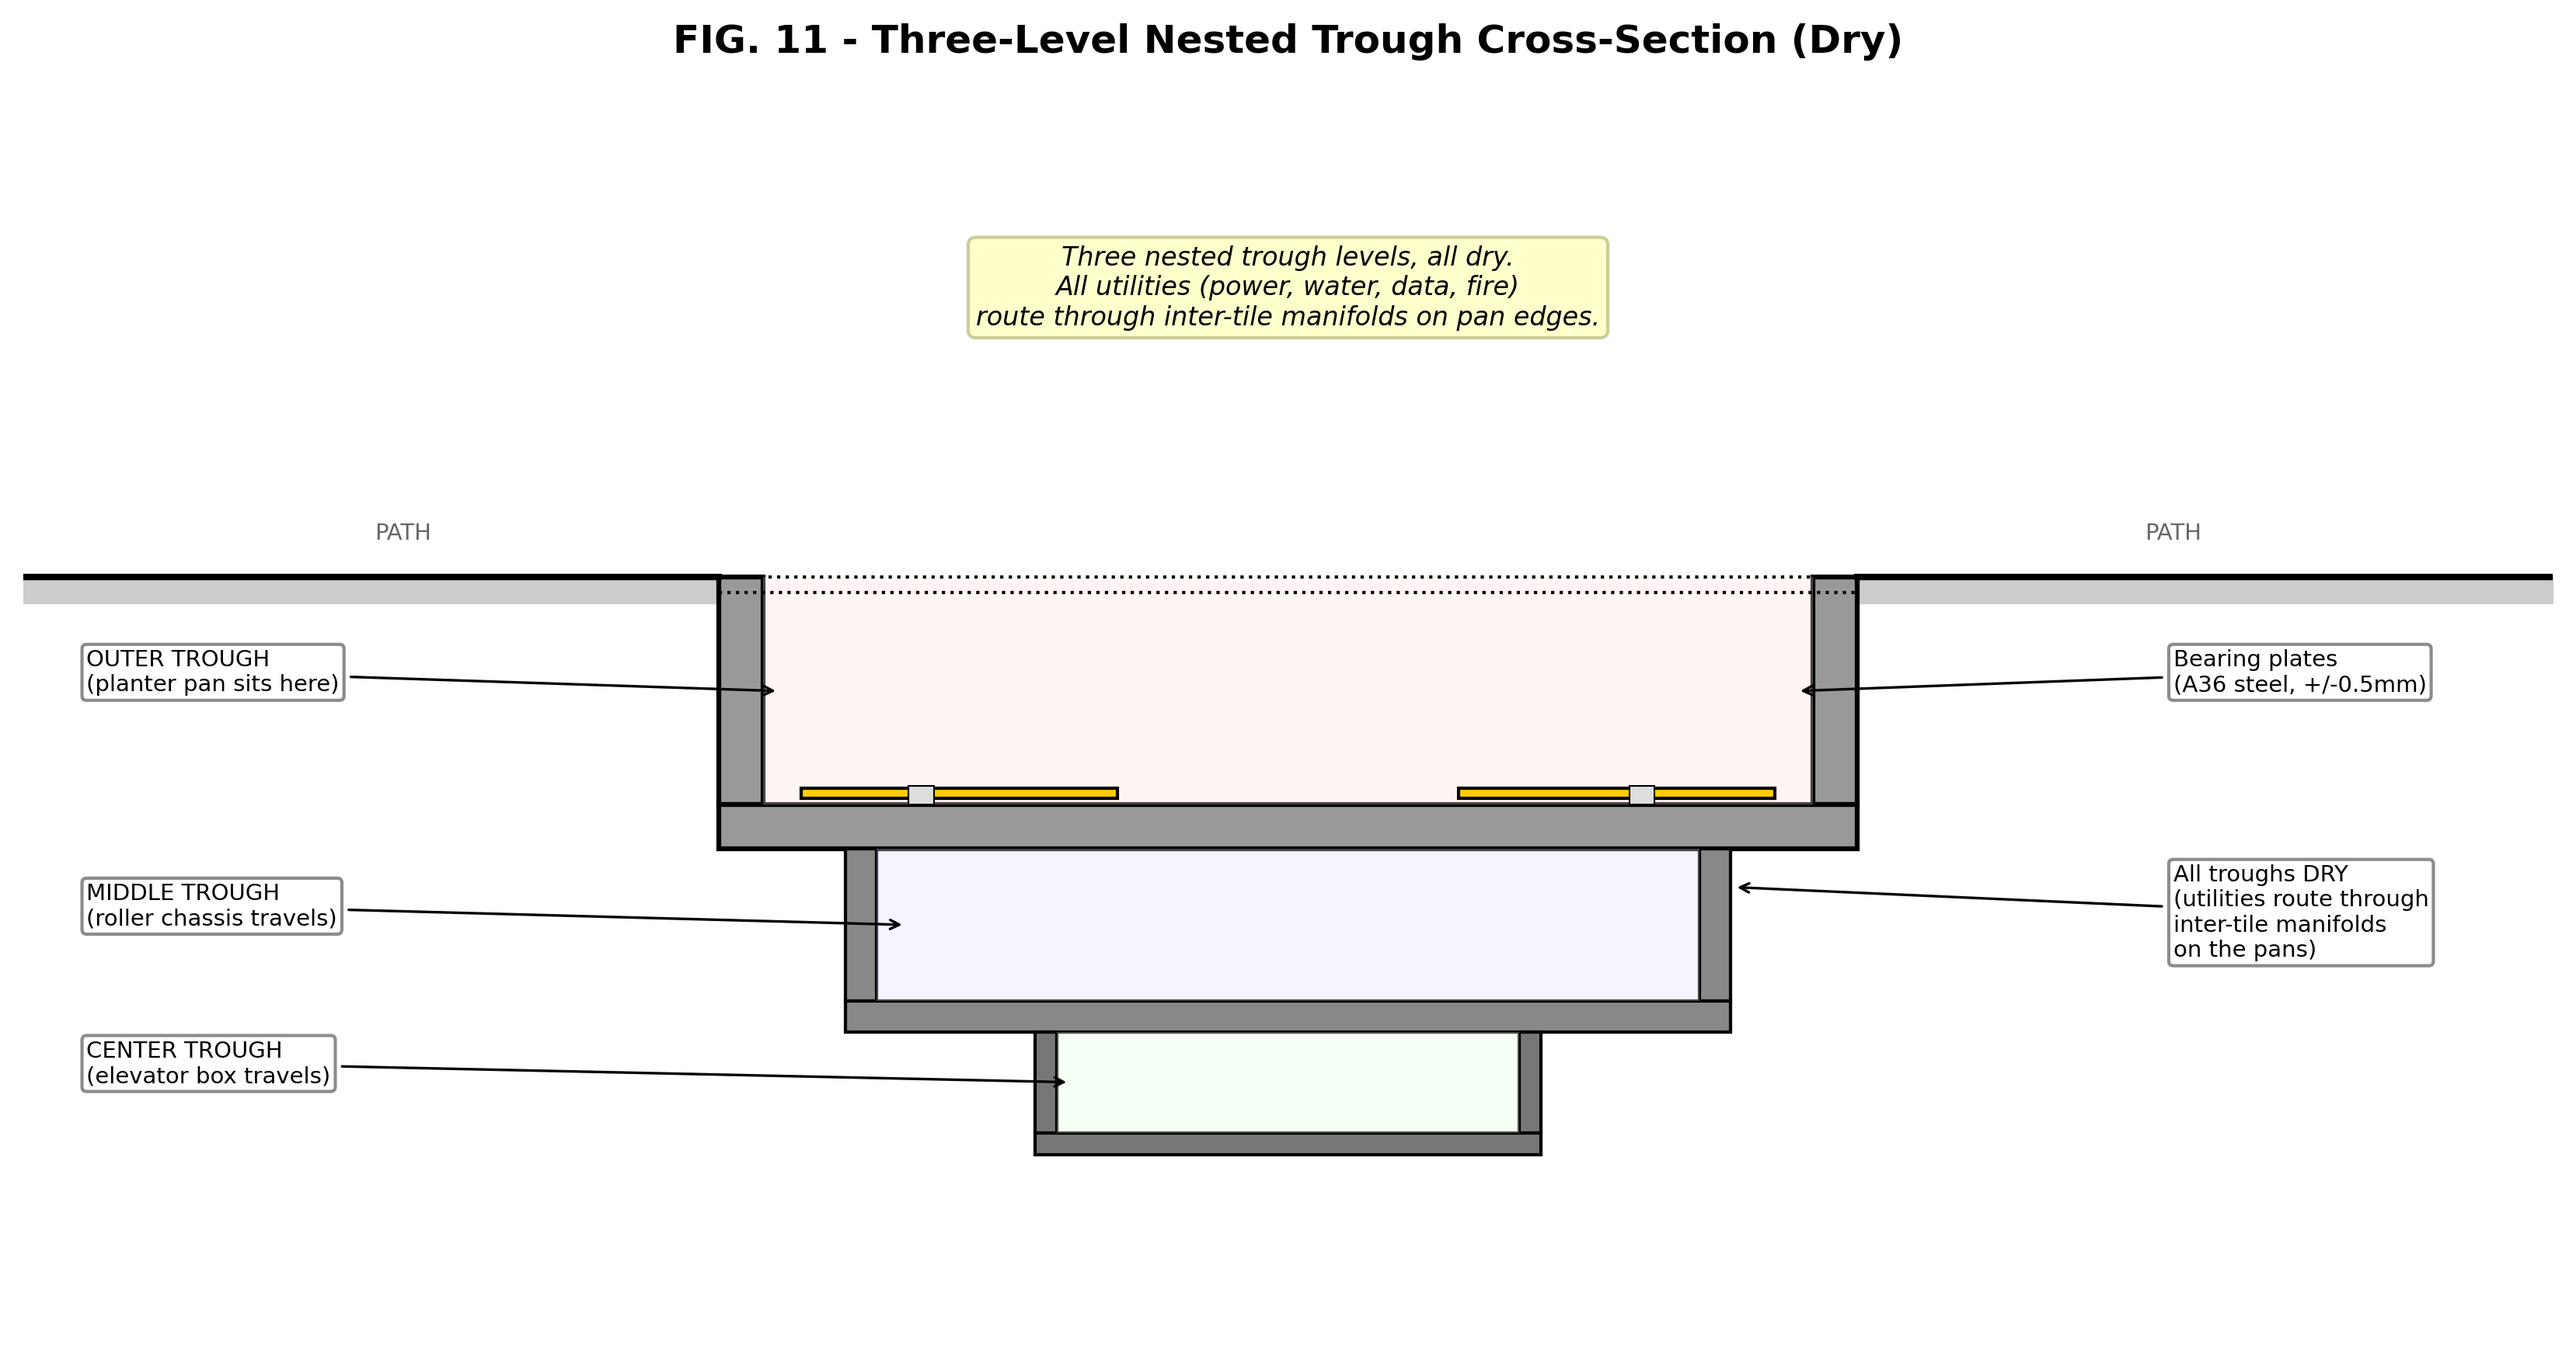
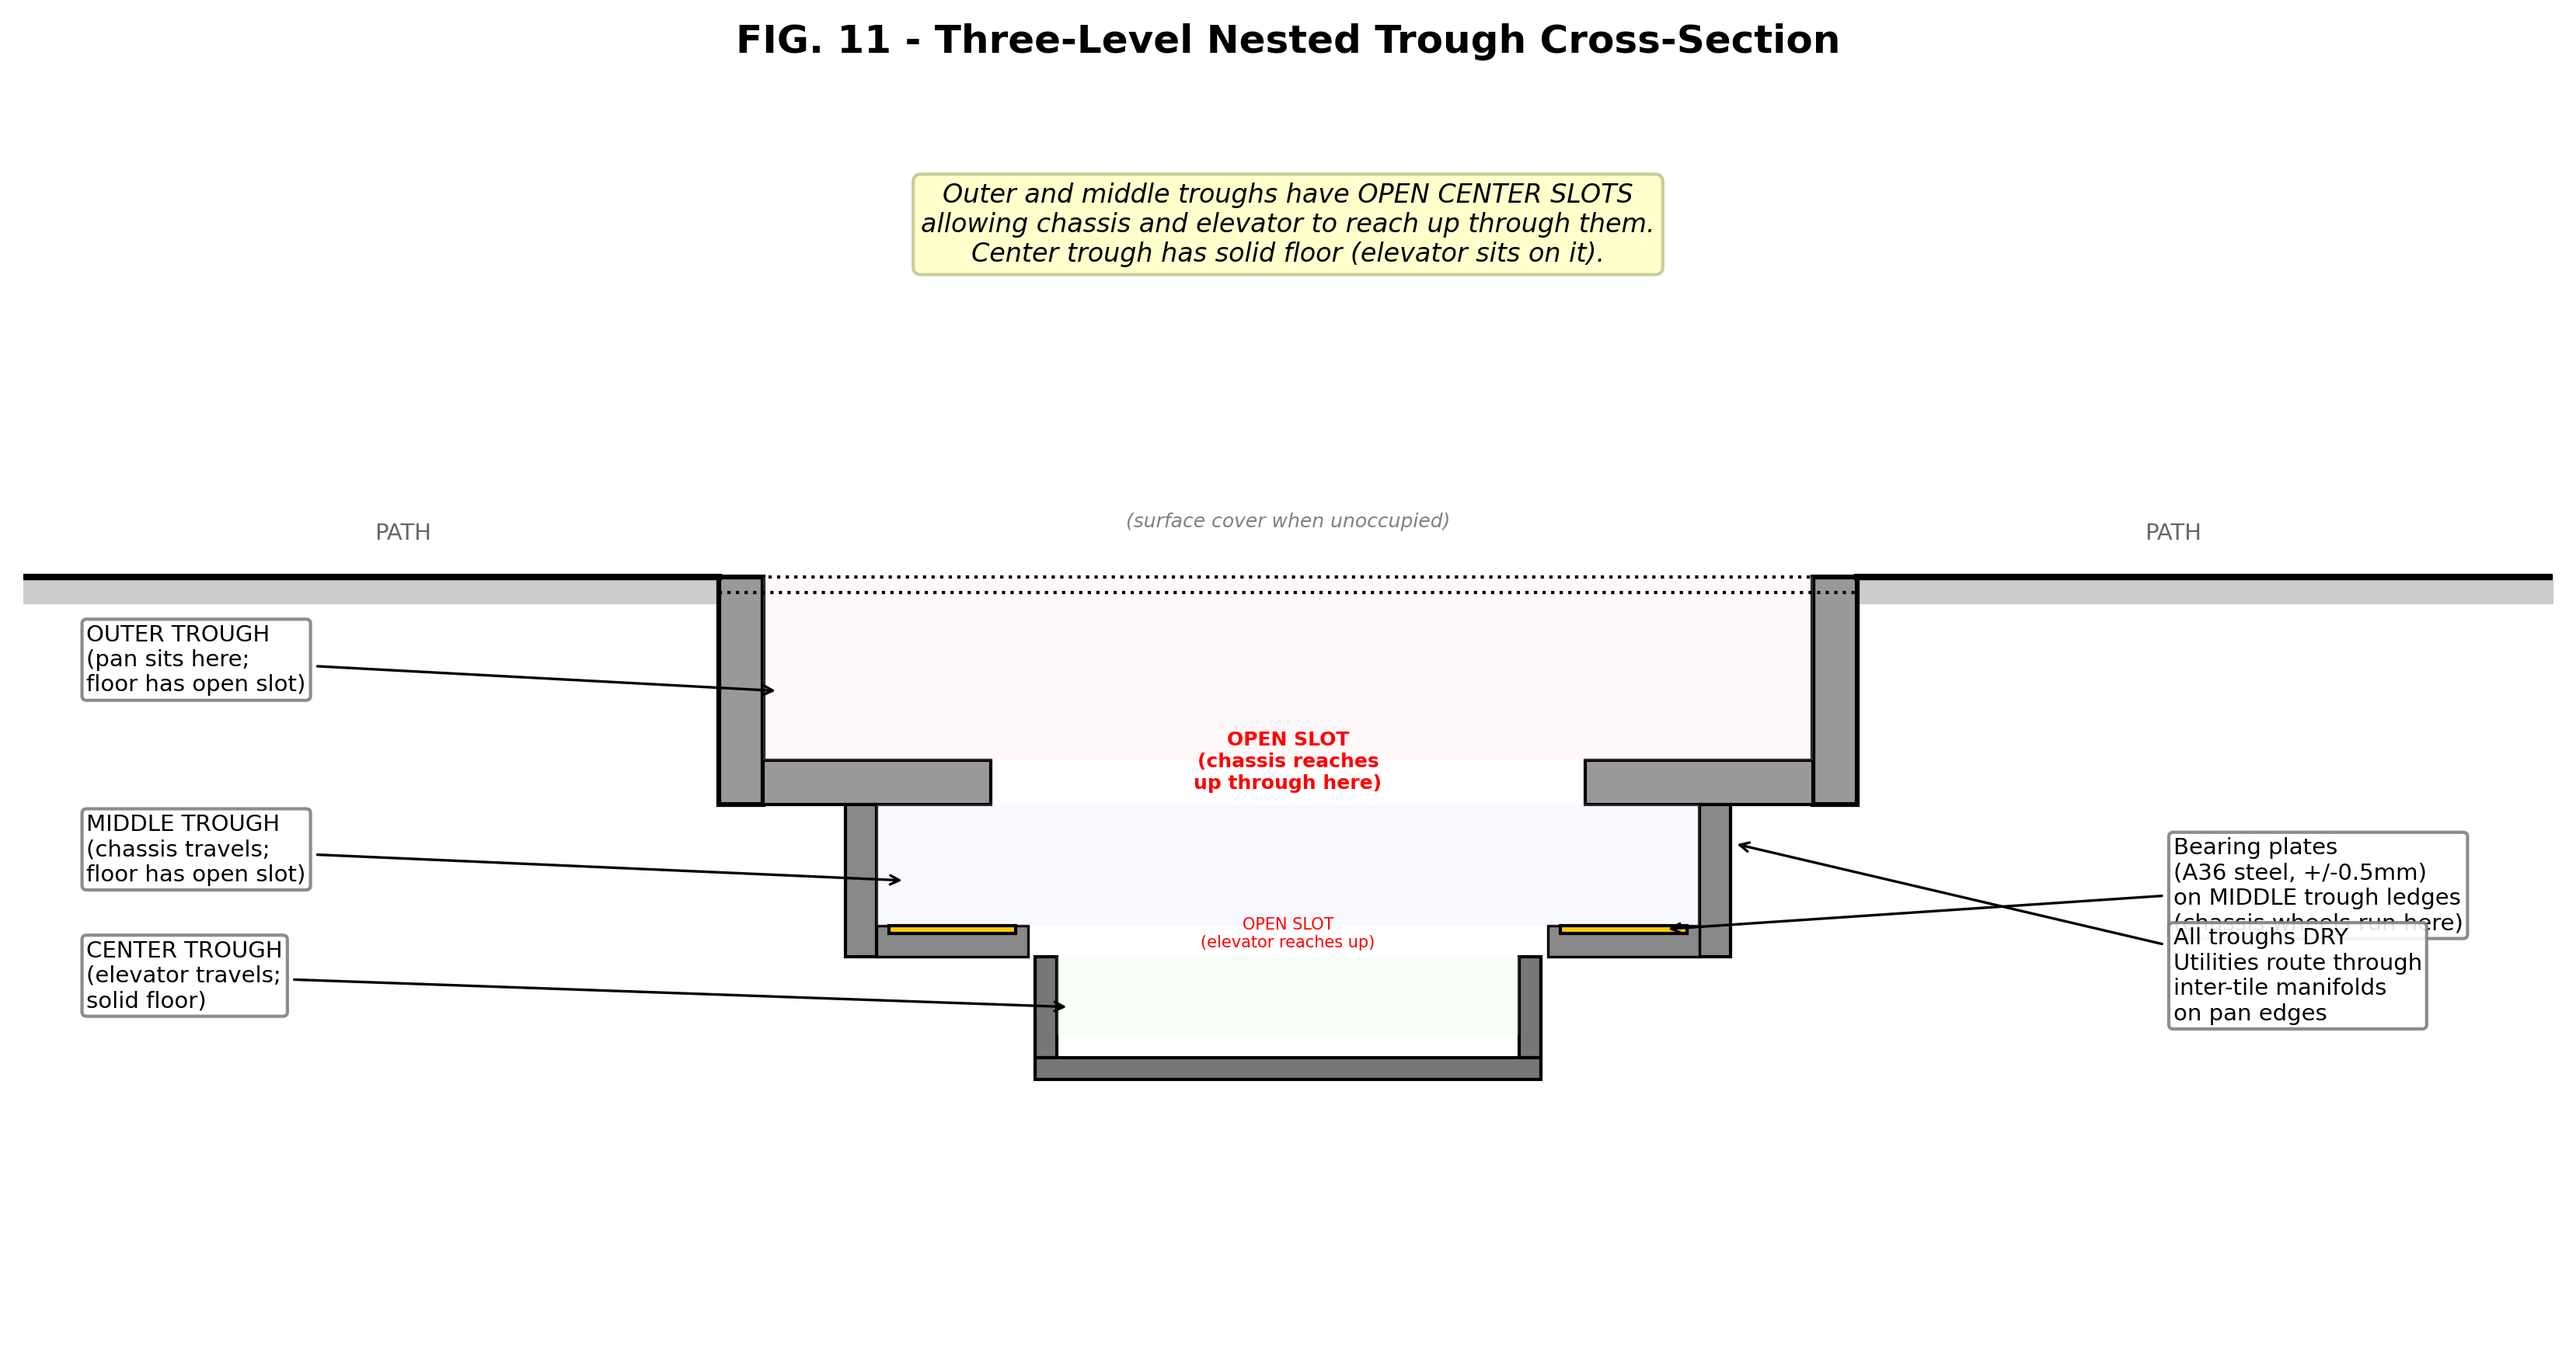
Fix Fig 11 (open slots in trough floors, bearing plates on middle trough), remove disclaimer
- Fig 11: outer trough floor now has OPEN CENTER SLOT for chassis access
- Fig 11: middle trough floor now has OPEN CENTER SLOT for elevator access
- Fig 11: center trough has solid floor (elevator sits on it)
- Fig 11: bearing plates moved to MIDDLE trough ledges (where chassis wheels run)
- Removed attorney disclaimer from end of document

diff --git a/patent/provisional-application.html b/patent/provisional-application.html
@@ -890,7 +890,6 @@ The central controller manages the fleet of roller chassis and elevator boxes as
 <li>Fig. 16 - Tile mesh network topology diagram (power, data, water routing across tile grid)</li>
 </ol>
 <hr />
-<p><em>This document is a provisional patent application. Review all details for accuracy before filing. This is not legal advice. Consider consulting a registered patent attorney or agent for review before filing.</em></p>
 
 <div class="drawings-section"><h2>DRAWINGS</h2>
 <div class="drawing"><img src="drawings/fig10_planter_crosssection.png" alt="fig10_planter_crosssection.png"><p class="caption">Fig10 Planter Crosssection</p></div>

diff --git a/patent/generate_drawings_v3.py b/patent/generate_drawings_v3.py
@@ -243,12 +243,12 @@ def fig14_pickup_sequence():
 
 
 def fig11_three_level_trough():
-    """Updated trough cross-section showing three nested levels"""
+    """Updated trough cross-section showing three nested levels with open floors"""
     fig, ax = plt.subplots(1, 1, figsize=(14, 9))
     ax.set_xlim(-4, 16)
     ax.set_ylim(-6, 4)
     ax.set_aspect('equal')
-    ax.set_title('FIG. 11 - Three-Level Nested Trough Cross-Section (Dry)',
+    ax.set_title('FIG. 11 - Three-Level Nested Trough Cross-Section',
                 fontsize=12, fontweight='bold')
 
     ground_y = 0
@@ -262,77 +262,109 @@ def fig11_three_level_trough():
     ax.text(-1, 0.3, 'PATH', fontsize=7, ha='center', color='#666')
     ax.text(13, 0.3, 'PATH', fontsize=7, ha='center', color='#666')
 
-    # OUTER TROUGH (widest)
+    wall = 0.35
+
+    # === OUTER TROUGH (widest) ===
     outer_l, outer_r = 1.5, 10.5
     outer_d = 1.8
-    wall = 0.35
+    # Left and right walls
     ax.add_patch(patches.Rectangle((outer_l, -outer_d), wall, outer_d,
                  facecolor='#999', edgecolor='black', linewidth=1.5))
     ax.add_patch(patches.Rectangle((outer_r - wall, -outer_d), wall, outer_d,
                  facecolor='#999', edgecolor='black', linewidth=1.5))
-    ax.add_patch(patches.Rectangle((outer_l, -outer_d - wall), outer_r - outer_l, wall,
-                 facecolor='#999', edgecolor='black', linewidth=1.5))
+    # Floor: LEFT ledge, OPEN CENTER SLOT, RIGHT ledge
+    ledge_w = 1.8
+    slot_l = outer_l + wall + ledge_w
+    slot_r = outer_r - wall - ledge_w
+    # Left ledge
+    ax.add_patch(patches.Rectangle((outer_l + wall, -outer_d), ledge_w, wall,
+                 facecolor='#999', edgecolor='black', linewidth=1))
+    # Right ledge
+    ax.add_patch(patches.Rectangle((outer_r - wall - ledge_w, -outer_d), ledge_w, wall,
+                 facecolor='#999', edgecolor='black', linewidth=1))
+    # Open slot annotation
+    ax.annotate('OPEN SLOT\n(chassis reaches\nup through here)',
+               xy=((slot_l + slot_r)/2, -outer_d + 0.1),
+               fontsize=6, ha='center', va='bottom', color='red',
+               fontweight='bold')
 
-    # MIDDLE TROUGH (narrower, deeper)
+    # === MIDDLE TROUGH (narrower, deeper) ===
     mid_l, mid_r = 2.5, 9.5
-    mid_top = -outer_d - wall
+    mid_top = -outer_d
     mid_d = 1.2
-    ax.add_patch(patches.Rectangle((mid_l, mid_top - mid_d), wall * 0.7, mid_d,
+    mw = wall * 0.7
+    # Left and right walls
+    ax.add_patch(patches.Rectangle((mid_l, mid_top - mid_d), mw, mid_d,
                  facecolor='#888', edgecolor='black', linewidth=1))
-    ax.add_patch(patches.Rectangle((mid_r - wall*0.7, mid_top - mid_d), wall * 0.7, mid_d,
+    ax.add_patch(patches.Rectangle((mid_r - mw, mid_top - mid_d), mw, mid_d,
                  facecolor='#888', edgecolor='black', linewidth=1))
-    ax.add_patch(patches.Rectangle((mid_l, mid_top - mid_d - wall*0.7), mid_r - mid_l, wall * 0.7,
-                 facecolor='#888', edgecolor='black', linewidth=1))
+    # Floor: LEFT ledge, OPEN CENTER SLOT, RIGHT ledge
+    mid_ledge_w = 1.2
+    mid_slot_l = mid_l + mw + mid_ledge_w
+    mid_slot_r = mid_r - mw - mid_ledge_w
+    ax.add_patch(patches.Rectangle((mid_l + mw, mid_top - mid_d), mid_ledge_w, mw,
+                 facecolor='#888', edgecolor='black', linewidth=0.8))
+    ax.add_patch(patches.Rectangle((mid_r - mw - mid_ledge_w, mid_top - mid_d), mid_ledge_w, mw,
+                 facecolor='#888', edgecolor='black', linewidth=0.8))
+    ax.annotate('OPEN SLOT\n(elevator reaches up)',
+               xy=((mid_slot_l + mid_slot_r)/2, mid_top - mid_d + 0.05),
+               fontsize=5, ha='center', va='bottom', color='red')
 
-    # CENTER TROUGH (narrowest, deepest)
+    # === CENTER TROUGH (narrowest, deepest) ===
     ctr_l, ctr_r = 4, 8
-    ctr_top = mid_top - mid_d - wall * 0.7
+    ctr_top = mid_top - mid_d
     ctr_d = 0.8
-    ax.add_patch(patches.Rectangle((ctr_l, ctr_top - ctr_d), wall * 0.5, ctr_d,
+    cw = wall * 0.5
+    ax.add_patch(patches.Rectangle((ctr_l, ctr_top - ctr_d), cw, ctr_d,
                  facecolor='#777', edgecolor='black', linewidth=1))
-    ax.add_patch(patches.Rectangle((ctr_r - wall*0.5, ctr_top - ctr_d), wall * 0.5, ctr_d,
+    ax.add_patch(patches.Rectangle((ctr_r - cw, ctr_top - ctr_d), cw, ctr_d,
                  facecolor='#777', edgecolor='black', linewidth=1))
-    ax.add_patch(patches.Rectangle((ctr_l, ctr_top - ctr_d - wall*0.5), ctr_r - ctr_l, wall * 0.5,
+    # Solid floor (elevator sits here)
+    ax.add_patch(patches.Rectangle((ctr_l, ctr_top - ctr_d - cw), ctr_r - ctr_l, cw,
                  facecolor='#777', edgecolor='black', linewidth=1))
 
-    # Fill trough areas with subtle colors
-    ax.add_patch(patches.Rectangle((outer_l + wall, -outer_d), outer_r - outer_l - 2*wall, outer_d,
-                 facecolor='#ffe0e0', edgecolor='none', alpha=0.3))
-    ax.add_patch(patches.Rectangle((mid_l + wall*0.7, mid_top - mid_d), mid_r - mid_l - 2*wall*0.7, mid_d,
-                 facecolor='#e0e0ff', edgecolor='none', alpha=0.3))
-    ax.add_patch(patches.Rectangle((ctr_l + wall*0.5, ctr_top - ctr_d), ctr_r - ctr_l - 2*wall*0.5, ctr_d,
-                 facecolor='#e0ffe0', edgecolor='none', alpha=0.3))
+    # Fill trough interiors with subtle colors
+    # Outer (only the open interior, not over the slot)
+    ax.add_patch(patches.Rectangle((outer_l + wall, -outer_d + wall), 
+                 outer_r - outer_l - 2*wall, outer_d - wall,
+                 facecolor='#ffe0e0', edgecolor='none', alpha=0.2))
+    # Middle
+    ax.add_patch(patches.Rectangle((mid_l + mw, mid_top - mid_d + mw),
+                 mid_r - mid_l - 2*mw, mid_d - mw,
+                 facecolor='#e0e0ff', edgecolor='none', alpha=0.2))
+    # Center
+    ax.add_patch(patches.Rectangle((ctr_l + cw, ctr_top - ctr_d + cw),
+                 ctr_r - ctr_l - 2*cw, ctr_d - cw,
+                 facecolor='#e0ffe0', edgecolor='none', alpha=0.2))
+
+    # Bearing plates on MIDDLE trough ledges (where chassis wheels run)
+    bp_h = 0.06
+    ax.add_patch(patches.Rectangle((mid_l + mw + 0.1, mid_top - mid_d + mw - bp_h),
+                 mid_ledge_w - 0.2, bp_h, facecolor='#ffcc00', edgecolor='black'))
+    ax.add_patch(patches.Rectangle((mid_r - mw - mid_ledge_w + 0.1, mid_top - mid_d + mw - bp_h),
+                 mid_ledge_w - 0.2, bp_h, facecolor='#ffcc00', edgecolor='black'))
 
     # Surface cover (dashed, when empty)
     ax.add_patch(patches.Rectangle((outer_l, -0.12), outer_r - outer_l, 0.12,
                  facecolor='none', edgecolor='black', linewidth=1, linestyle=':'))
+    ax.text(6, 0.4, '(surface cover when unoccupied)', ha='center', fontsize=6,
+           color='gray', style='italic')
 
     # Labels
     labels = [
-        ((-3.5, -0.9), (outer_l + 0.5, -0.9), 'OUTER TROUGH\n(planter pan sits here)'),
-        ((-3.5, mid_top - mid_d/2), (mid_l + 0.5, mid_top - mid_d/2), 'MIDDLE TROUGH\n(roller chassis travels)'),
-        ((-3.5, ctr_top - ctr_d/2), (ctr_l + 0.3, ctr_top - ctr_d/2), 'CENTER TROUGH\n(elevator box travels)'),
-        ((13, -0.9), (outer_r - 0.5, -0.9), 'Bearing plates\n(A36 steel, +/-0.5mm)'),
-        ((13, -3), (outer_r - 1, mid_top - 0.3), 'All troughs DRY\n(utilities route through\ninter-tile manifolds\non the pans)'),
+        ((-3.5, -0.9), (outer_l + 0.5, -0.9), 'OUTER TROUGH\n(pan sits here;\nfloor has open slot)'),
+        ((-3.5, mid_top - mid_d/2), (mid_l + 0.5, mid_top - mid_d/2), 'MIDDLE TROUGH\n(chassis travels;\nfloor has open slot)'),
+        ((-3.5, ctr_top - ctr_d/2), (ctr_l + 0.3, ctr_top - ctr_d/2), 'CENTER TROUGH\n(elevator travels;\nsolid floor)'),
+        ((13, mid_top - mid_d + mw - 0.03), (mid_r - mw - 0.3, mid_top - mid_d + mw - bp_h/2),
+         'Bearing plates\n(A36 steel, +/-0.5mm)\non MIDDLE trough ledges\n(chassis wheels run here)'),
+        ((13, -3.5), (outer_r - 1, mid_top - 0.3), 'All troughs DRY\nUtilities route through\ninter-tile manifolds\non pan edges'),
     ]
     for text_pos, target, label in labels:
         ax.annotate(label, xy=target, xytext=text_pos, fontsize=7,
                    arrowprops=dict(arrowstyle='->', lw=0.8),
                    bbox=dict(boxstyle='round,pad=0.2', facecolor='white', edgecolor='gray', alpha=0.9))
 
-    # Bearing plates in outer trough
-    bp_y = -outer_d + 0.05
-    ax.add_patch(patches.Rectangle((outer_l + wall + 0.3, bp_y), 2.5, 0.08,
-                 facecolor='#ffcc00', edgecolor='black'))
-    ax.add_patch(patches.Rectangle((outer_r - wall - 2.8, bp_y), 2.5, 0.08,
-                 facecolor='#ffcc00', edgecolor='black'))
-
-    # Drainage slots
-    for dx in [outer_l + 1.5, outer_r - 1.8]:
-        ax.add_patch(patches.Rectangle((dx, -outer_d), 0.2, 0.15,
-                     facecolor='#ddd', edgecolor='black', linewidth=0.5))
-
-    ax.text(6, 2, 'Three nested trough levels, all dry.\nAll utilities (power, water, data, fire)\nroute through inter-tile manifolds on pan edges.',
+    ax.text(6, 2.5, 'Outer and middle troughs have OPEN CENTER SLOTS\nallowing chassis and elevator to reach up through them.\nCenter trough has solid floor (elevator sits on it).',
            ha='center', fontsize=8, style='italic',
            bbox=dict(boxstyle='round', facecolor='#ffffcc', edgecolor='#cc9'))
 

diff --git a/patent/provisional-application.md b/patent/provisional-application.md
@@ -974,4 +974,5 @@ The following drawings are included with this application:
 
 ---
 
-*This document is a provisional patent application. Review all details for accuracy before filing. This is not legal advice. Consider consulting a registered patent attorney or agent for review before filing.*
+
+
